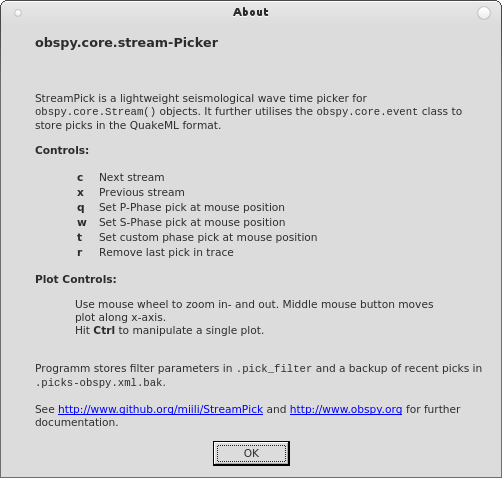
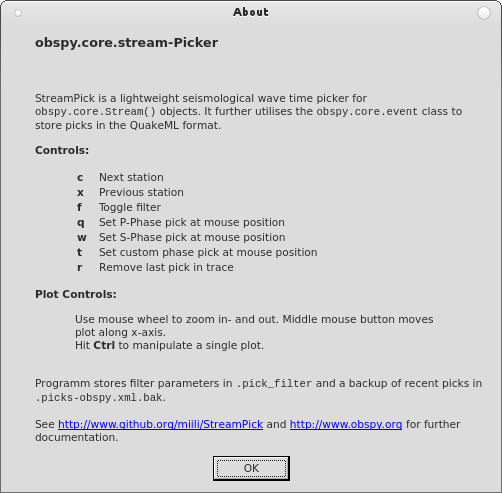
completed about info

diff --git a/streamPick.py b/streamPick.py
@@ -699,10 +699,13 @@ class streamPick(QtGui.QMainWindow):
                 <blockquote>
                 <table>
                     <tr>
-                        <td width=20><b>%s</b></td><td>Next stream</td>
+                        <td width=20><b>%s</b></td><td>Next station</td>
                     </tr>
                     <tr>
-                        <td width=20><b>%s</b></td><td>Previous stream</td>
+                        <td width=20><b>%s</b></td><td>Previous station</td>
+                    </tr>
+                    <tr>
+                        <td width=20><b>%s</b></td><td>Toggle filter</td>
                     </tr>
                     <tr>
                         <td width=20><b>%s</b></td>
@@ -741,6 +744,7 @@ class streamPick(QtGui.QMainWindow):
                 """ % (
                     self._shortcuts['st_next'],
                     self._shortcuts['st_previous'],
+                    self._shortcuts['filter_apply'],
                     self._shortcuts['pick_p'],
                     self._shortcuts['pick_s'],
                     self._shortcuts['pick_custom'],
